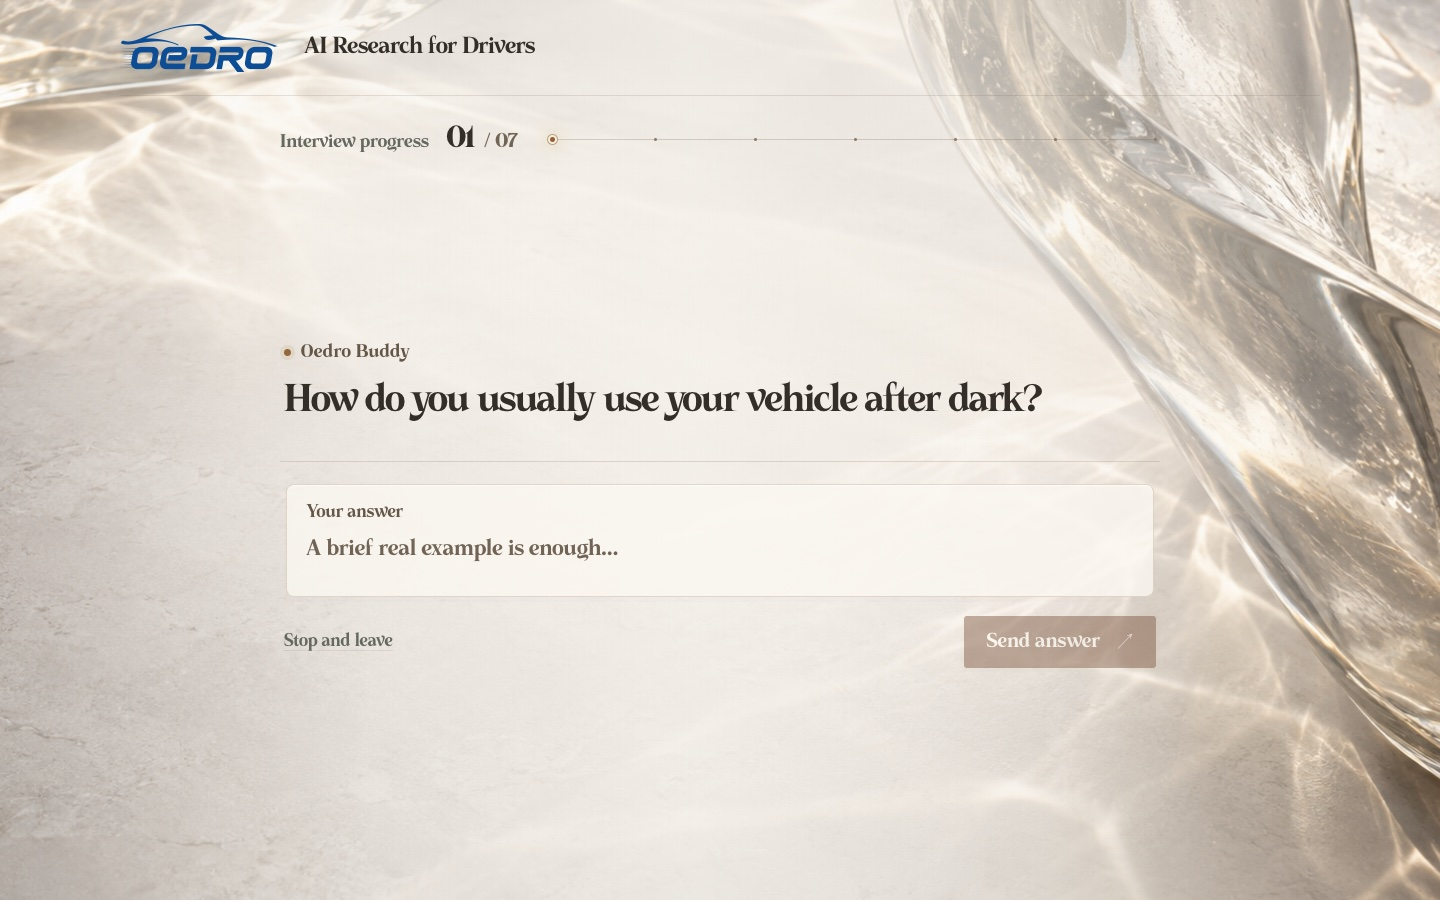
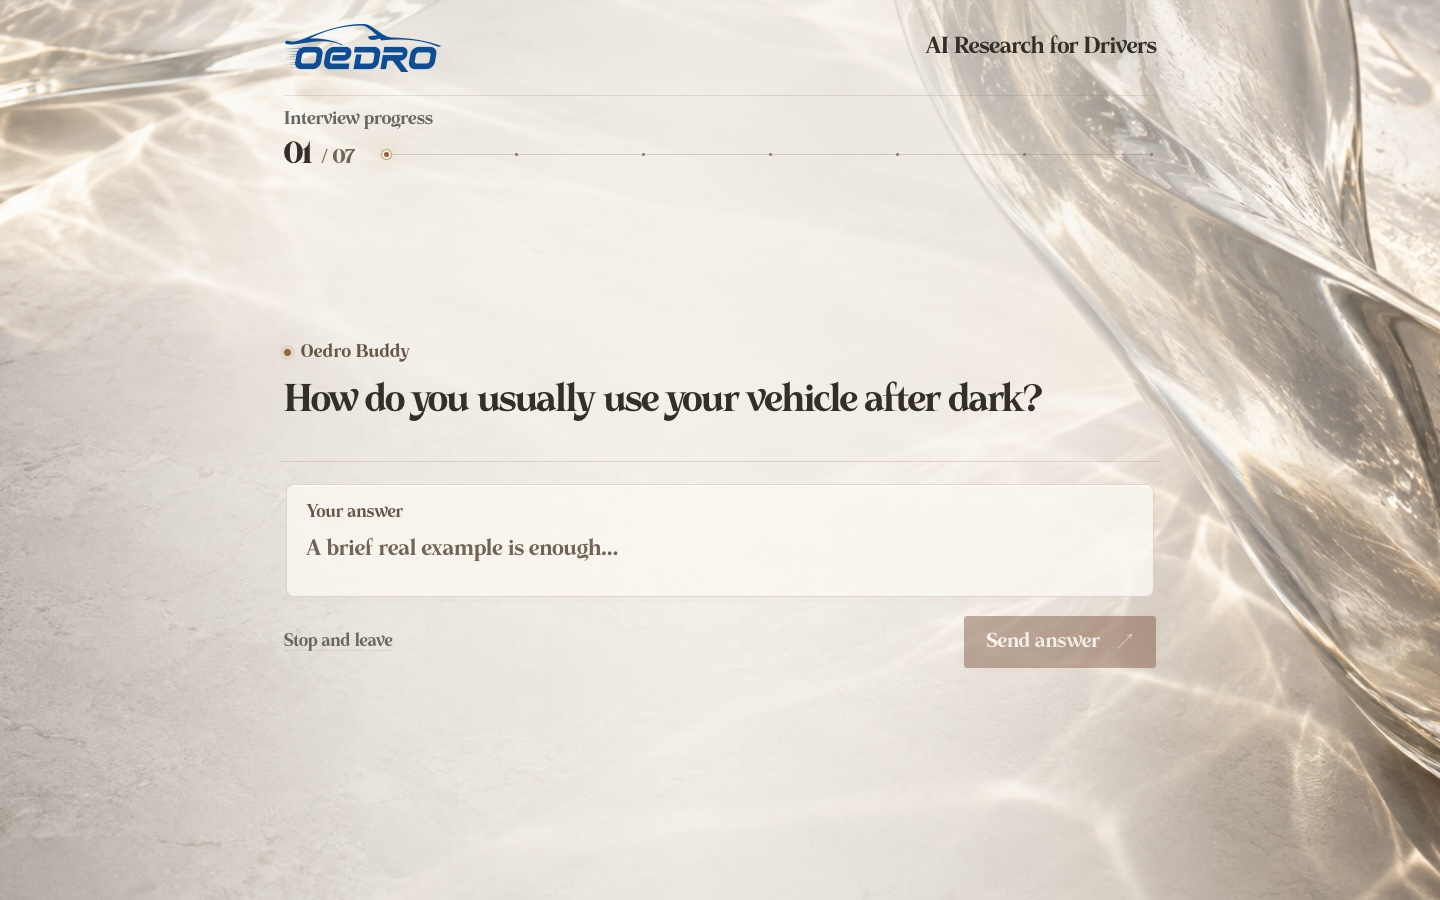
Align research header, stack merch concepts, consolidate design rules

Changed region(s): [[0.0938, 0.0311, 0.375, 0.0933], [0.1875, 0.1244, 0.375, 0.1867], [0.625, 0.0311, 0.8125, 0.0622]]

diff --git a/apps/light-research/app/globals.css b/apps/light-research/app/globals.css
@@ -29,8 +29,8 @@ button:focus-visible, textarea:focus-visible, input:focus-visible, summary:focus
 button { touch-action: manipulation; }
 ::selection { color: var(--ink); background: #e8cbb3; }
 .appShell { height: var(--survey-viewport, 100dvh); min-height: 0; display: grid; grid-template: 96px 86px minmax(0, 1fr) / minmax(0, 1fr); overflow: hidden; border-top: 0; }
-.appHeader { width: min(1200px, calc(100% - 80px)); margin: 0 auto; display: flex; align-items: center; justify-content: space-between; border-bottom: 1px solid var(--line); z-index: 5; }
-.identity { display: flex; align-items: center; gap: 20px; }
+.appHeader { width: min(872px, calc(100% - 88px)); margin: 0 auto; display: flex; align-items: center; justify-content: space-between; border-bottom: 1px solid var(--line); z-index: 5; }
+.identity { display: flex; align-items: center; justify-content: space-between; width: 100%; gap: 20px; }
 .brandMark { display: inline-flex; align-items: center; gap: 9px; font-weight: 750; letter-spacing: -.05em; font-size: 23px; }
 .brandMark::before { content: ""; width: 22px; height: 22px; border: 1.5px solid currentColor; border-radius: 50%; background: radial-gradient(circle, currentColor 0 2px, transparent 2.5px); }
 .appHeader h1 { margin: 0; padding-left: 20px; border-left: 1px solid var(--line); font-size: 14px; font-weight: 500; letter-spacing: .16em; text-transform: uppercase; }
@@ -213,13 +213,13 @@ body { background: #f1eee7 url("/study-assets/cast-light.png") center / cover fi
 .motionPaused::before { animation-play-state: paused; }
 .appHeader { border-bottom-color: #6f61522b; }
 .brandMark { font-family: var(--voice); font-weight: 400; font-size: 26px; letter-spacing: -.025em; }
-.appHeader h1 { font: 400 24px/1.2 var(--voice); text-transform: none; letter-spacing: -.015em; border-left: none; padding-left: 0; }
+.appHeader h1 { font: 400 24px/1.2 var(--voice); text-transform: none; letter-spacing: -.015em; border-left: none; padding-left: 0; margin-left: auto; text-align: right; }
 .identity { gap: 24px; }
 .sessionTools summary { font-size: 17px; }
 .sessionPopover { background: #f9f6ef; }
 .studyRail { gap: 28px; }
 .topicPosition { gap: 12px; align-items: baseline; }
-.topicPosition > span:first-child { font-size: 15px; }
+.progressLabel { font-size: 15px; }
 .topicPosition strong { font-size: 38px; line-height: 1; font-weight: 400; letter-spacing: -.04em; }
 .topicTotal { font-size: 18px; color: #716655; }
 .progressHorizon { position: relative; flex: 1; min-width: 0; height: 1px; background: #7a6a5345; margin: 0 3px; }
@@ -247,7 +247,7 @@ body { background: #f1eee7 url("/study-assets/cast-light.png") center / cover fi
 .consentPanel h1, .completionPanel h2 { font-family: var(--voice); }
 @keyframes lightDrift { from { transform: scale(1.04) translate(-.6%, -.3%); } to { transform: scale(1.06) translate(.6%, .3%); } }
 @media (max-width: 760px) {
-  .appHeader { width: calc(100% - 36px); }
+  .appHeader { width: calc(100% - 56px); }
   .identity { gap: 12px; }
   .brandMark { font-size: 21px; }
   .appHeader h1 { font-size: 20px; }
@@ -255,7 +255,7 @@ body { background: #f1eee7 url("/study-assets/cast-light.png") center / cover fi
   .studyRail { width: calc(100% - 48px); gap: 22px; }
   .topicPosition { gap: 8px; }
   .topicPosition strong { font-size: 30px; }
-  .topicPosition > span:first-child { font-size: 14px; }
+  .progressLabel { font-size: 14px; }
   .topicTotal { font-size: 16px; }
   .conversationArea { padding-inline: 24px; }
   .appShell::before { background-position: 60% center; }
@@ -305,7 +305,7 @@ body { background: #f1eee7 url("/study-assets/cast-light.png") center / cover fi
   .appHeader h1 { font-size: 18px; }
 }
 @media (max-width: 760px) {
-  .typefaceSurface[data-typeface] .identity { display: grid; gap: 2px; }
+  .typefaceSurface[data-typeface] .identity { display: grid; grid-template-columns: minmax(0, 1fr); gap: 2px; }
   .typefaceSurface[data-typeface] .brandMark { font-size: 16px; }
   .typefaceSurface[data-typeface] .brandMark::before { width: 14px; height: 14px; }
   .typefaceSurface[data-typeface] .appHeader h1 { font-size: 21px; white-space: nowrap; }
@@ -317,9 +317,10 @@ body { background: #f1eee7 url("/study-assets/cast-light.png") center / cover fi
 }
 
 /* Reading and input refinement: retain the cast-glass material with a usable type scale. */
-.studyRail { width: min(880px, calc(100% - 80px)); gap: 28px; }
+.studyRail { width: min(872px, calc(100% - 88px)); flex-direction: column; align-items: stretch; justify-content: center; gap: 8px; }
+.progressRow { display: flex; align-items: center; gap: 24px; width: 100%; }
 .topicPosition { gap: 10px; }
-.topicPosition > span:first-child { font-size: 19px; margin-right: 8px; }
+.progressLabel { font-size: 19px; }
 .topicPosition strong { font-size: 32px; }
 .topicTotal { font-size: 21px; }
 .conversationArea { width: min(960px, 100%); }
@@ -346,9 +347,10 @@ body { background: #f1eee7 url("/study-assets/cast-light.png") center / cover fi
 @media (max-width: 760px) {
   .typefaceSurface[data-typeface] .sessionTools summary { font-size: 18px; }
   .appHeader { column-gap: 12px; padding-top: env(safe-area-inset-top); }
-  .studyRail { width: calc(100% - 48px); gap: 18px; }
+  .studyRail { width: calc(100% - 56px); gap: 6px; }
+  .progressRow { gap: 18px; }
   .topicPosition { gap: 7px; }
-  .topicPosition > span:first-child { font-size: 17px; margin-right: 3px; }
+  .progressLabel { font-size: 17px; }
   .topicPosition strong { font-size: 27px; }
   .topicTotal { font-size: 18px; }
   .message > span { font-size: 17px; }
@@ -364,7 +366,7 @@ body { background: #f1eee7 url("/study-assets/cast-light.png") center / cover fi
   .isOpening .conversationArea { padding-bottom: max(20px, env(safe-area-inset-bottom)); }
 }
 @media (max-height: 590px) {
-  .appShell { grid-template-rows: 52px 40px minmax(0, 1fr); }
+  .appShell { grid-template-rows: 72px 66px minmax(0, 1fr); }
   .conversationArea { padding-bottom: max(6px, env(safe-area-inset-bottom)); }
   .composer { max-height: calc(var(--survey-viewport, 100dvh) * .56); padding-top: 6px; }
   .composerActions { margin-top: 4px; gap: 4px; }
@@ -378,7 +380,7 @@ body { background: #f1eee7 url("/study-assets/cast-light.png") center / cover fi
 }
 
 /* Mobile keyboards resize visualViewport, not necessarily CSS media-query height. */
-.appShell[data-compact-viewport] { grid-template-rows: 52px 40px minmax(0, 1fr); }
+.appShell[data-compact-viewport] { grid-template-rows: 72px 66px minmax(0, 1fr); }
 [data-compact-viewport] .conversationArea { padding-bottom: max(6px, env(safe-area-inset-bottom)); }
 [data-compact-viewport].isOpening .conversationArea { align-content: stretch; grid-template-rows: minmax(0, 1fr) auto; }
 [data-compact-viewport].isOpening .transcript { max-height: none; }

diff --git a/merch-plan.html b/merch-plan.html
@@ -6,9 +6,9 @@
   <meta name="description" content="OEDRO Merch 企划：周边方向、用户共创、打样与小批量验证建议。">
   <link rel="icon" href="data:,">
   <title>OEDRO Merch 企划</title>
-  <link rel="stylesheet" href="base.css?v=20260914-r1">
-  <link rel="stylesheet" href="theme.css?v=20260914-r1">
-  <link rel="stylesheet" href="brand-plan.css">
+  <link rel="stylesheet" href="base.css?v=20260914-r2">
+  <link rel="stylesheet" href="theme.css?v=20260914-r2">
+  <link rel="stylesheet" href="brand-plan.css?v=20260914-r2">
 </head>
 <body data-page="merch-plan">
   <a class="skip-link" href="#content">跳到正文</a>
@@ -31,7 +31,6 @@
           <header class="page-heading"><h1>OEDRO Merch 企划</h1></header>
           <p class="plan-lead">周边是品牌升级里的用户参与试验，能否成为商品线，要看真实需求、成本结构和用户是否愿意主动展示。</p>
           <p>汽车配件购买频率低，两次购买之间，车贴、帽子、投稿和活动可以形成轻量联系。以下是尚未启动的建议，设计均为概念效果图，没有现货。</p>
-          <div class="plan-links"><a href="social-brand.html">OEDRO 社媒品牌升级 →</a><a href="content-studio.html">已有内容与方案</a></div>
 
           <section aria-labelledby="choices"><h2 id="choices">方案要点</h2>
             <ol class="plan-decisions">
@@ -55,14 +54,17 @@
 
           <section aria-labelledby="concepts"><h2 id="concepts">三个设计方向</h2>
             <div class="plan-concepts">
-              <article><h3>工具工装</h3><p>把结构线、织带和压印做进设计，让周边看起来像车间里会用到的东西。重点比较材料细节与工具箱、工作服的搭配。</p>
+              <article><h3>工具工装</h3>
                 <figure><img src="assets/brand-plan/merch-utility.jpg" width="1536" height="1024" loading="lazy" alt="棕色工装帽、结构纹织章与织带钥匙扣"><figcaption>概念效果图 · 工具工装</figcaption></figure>
+                <p>把结构线、织带和压印做进设计，让周边看起来像车间里会用到的东西。重点比较材料细节与工具箱、工作服的搭配。</p>
               </article>
-              <article><h3>户外路线</h3><p>用弯曲的山路做图案，适合工具箱或车窗，强调“车是去户外的工具”。图案应能在小面积上辨认。</p>
+              <article><h3>户外路线</h3>
                 <figure><img src="assets/brand-plan/merch-trail.jpg" width="1536" height="1024" loading="lazy" alt="橄榄绿帽子、山路织章与透明车贴"><figcaption>概念效果图 · 户外路线</figcaption></figure>
+                <p>用弯曲的山路做图案，适合工具箱或车窗，强调“车是去户外的工具”。图案应能在小面积上辨认。</p>
               </article>
-              <article><h3>车主幽默</h3><p>围绕“总被叫去搬东西”的情境做设计，写车主一看就懂的场景。判断用户是否愿意使用这个表达，避免廉价笑话。</p>
+              <article><h3>车主幽默</h3>
                 <figure><img src="assets/brand-plan/merch-humor.jpg" width="1536" height="1024" loading="lazy" alt="印有ON CALL搬家皮卡图案的车贴、帽子与T恤"><figcaption>概念效果图 · ON CALL：有皮卡，就总有人找你搬东西。</figcaption></figure>
+                <p>围绕“总被叫去搬东西”的情境做设计，写车主一看就懂的场景。判断用户是否愿意使用这个表达，避免廉价笑话。</p>
               </article>
             </div>
           </section>
@@ -116,6 +118,6 @@
       </main>
     </div>
   </div>
-  <script src="app.js?v=20260914-r1"></script>
+  <script src="app.js?v=20260914-r2"></script>
 </body>
 </html>

diff --git a/apps/light-research/components/ResearchInterview.tsx b/apps/light-research/components/ResearchInterview.tsx
@@ -567,10 +567,13 @@ export function ResearchInterview({ study, requireConsent = false }: { study: Pu
         <div className="identity"><Image className="officialLogo" src="/oedro-logo.png" alt="OEDRO" width={160} height={48} unoptimized /><h1>AI Research for Drivers</h1></div>
       </header>
       <aside className="studyRail" aria-label={`${visualUi.topic} ${conversation?.progress.current ?? 1} / ${conversation?.progress.total ?? study.anchors.length}`}>
-        <div className="topicPosition"><span>{visualUi.topic}</span><strong>{String(conversation?.progress.current ?? 1).padStart(2, "0")}</strong><span className="topicTotal">/ {String(conversation?.progress.total ?? study.anchors.length).padStart(2, "0")}</span></div>
+        <span className="progressLabel">{visualUi.topic}</span>
+        <div className="progressRow">
+        <div className="topicPosition"><strong>{String(conversation?.progress.current ?? 1).padStart(2, "0")}</strong><span className="topicTotal">/ {String(conversation?.progress.total ?? study.anchors.length).padStart(2, "0")}</span></div>
         <div className="progressHorizon" aria-hidden="true">
           <span className="horizonFill" style={{ width: `${Math.max(0, ((conversation?.progress.current ?? 1) - 1) / Math.max(1, (conversation?.progress.total ?? study.anchors.length) - 1)) * 100}%` }} />
           <div className="horizonMarks">{study.anchors.map((anchor, index) => <i key={anchor.id} className={index === (conversation?.progress.current ?? 1) - 1 ? "current" : index < (conversation?.progress.current ?? 1) ? "reached" : ""} />)}</div>
+        </div>
         </div>
       </aside>
       <section className={`conversationArea${showLatest && !completed ? " hasEarlier" : ""}`} aria-label={recoveryUi.conversation}>

diff --git a/social-brand.html b/social-brand.html
@@ -6,9 +6,9 @@
   <meta name="description" content="OEDRO 社媒品牌升级：车主内容、平台分工与四周小范围试验建议。">
   <link rel="icon" href="data:,">
   <title>OEDRO 社媒品牌升级</title>
-  <link rel="stylesheet" href="base.css?v=20260914-r1">
-  <link rel="stylesheet" href="theme.css?v=20260914-r1">
-  <link rel="stylesheet" href="brand-plan.css">
+  <link rel="stylesheet" href="base.css?v=20260914-r2">
+  <link rel="stylesheet" href="theme.css?v=20260914-r2">
+  <link rel="stylesheet" href="brand-plan.css?v=20260914-r2">
 </head>
 <body data-page="social-brand">
   <a class="skip-link" href="#content">跳到正文</a>
@@ -115,6 +115,6 @@
       </main>
     </div>
   </div>
-  <script src="app.js?v=20260914-r1"></script>
+  <script src="app.js?v=20260914-r2"></script>
 </body>
 </html>

diff --git a/content-pipeline-test.html b/content-pipeline-test.html
@@ -7,8 +7,8 @@
   <meta name="theme-color" content="#080a08">
   <link rel="icon" href="data:,">
   <title>社媒内容制作（测试版）｜海外用户运营</title>
-  <link rel="stylesheet" href="base.css?v=20260914-r1">
-  <link rel="stylesheet" href="theme.css?v=20260914-r1">
+  <link rel="stylesheet" href="base.css?v=20260914-r2">
+  <link rel="stylesheet" href="theme.css?v=20260914-r2">
   <link rel="stylesheet" href="content-pipeline.css?v=photo-primary-20260909">
 </head>
 <body data-page="studio">
@@ -42,6 +42,6 @@
     </div>
   </div>
   <script src="content-pipeline-test.js?v=photo-primary-20260909"></script>
-  <script src="app.js?v=20260914-r1"></script>
+  <script src="app.js?v=20260914-r2"></script>
 </body>
 </html>

diff --git a/flipbooks.html b/flipbooks.html
@@ -7,8 +7,8 @@
   <meta name="theme-color" content="#080a08">
   <link rel="icon" href="data:,">
   <title>Flip Book Demo（翻页书）｜OEDRO海外用户运营</title>
-  <link rel="stylesheet" href="base.css?v=20260914-r1">
-  <link rel="stylesheet" href="theme.css?v=20260914-r1">
+  <link rel="stylesheet" href="base.css?v=20260914-r2">
+  <link rel="stylesheet" href="theme.css?v=20260914-r2">
 </head>
 <body data-page="flipbooks">
   <a class="skip-link" href="#content">跳到正文</a>
@@ -29,6 +29,6 @@
       <main class="main-content" id="content" aria-live="polite"></main>
     </div>
   </div>
-  <script src="app.js?v=20260914-r1"></script>
+  <script src="app.js?v=20260914-r2"></script>
 </body>
 </html>

diff --git a/mascot.html b/mascot.html
@@ -7,8 +7,8 @@
   <meta name="theme-color" content="#080a08">
   <link rel="icon" href="data:,">
   <title>OEDRO 吉祥物迭代</title>
-  <link rel="stylesheet" href="base.css?v=20260914-r1">
-  <link rel="stylesheet" href="theme.css?v=20260914-r1">
+  <link rel="stylesheet" href="base.css?v=20260914-r2">
+  <link rel="stylesheet" href="theme.css?v=20260914-r2">
   <link rel="stylesheet" href="mascot.css">
 </head>
 <body data-page="mascot">
@@ -30,7 +30,7 @@
       <main class="main-content mascot-main" id="content" aria-live="polite"></main>
     </div>
   </div>
-  <script src="app.js?v=20260914-r1"></script>
+  <script src="app.js?v=20260914-r2"></script>
   <script src="mascot.js"></script>
 </body>
 </html>

diff --git a/light-research.html b/light-research.html
@@ -7,8 +7,8 @@
   <meta name="theme-color" content="#080a08">
   <link rel="icon" href="data:,">
   <title>AI智能用户调研｜OEDRO海外用户运营</title>
-  <link rel="stylesheet" href="base.css?v=20260914-r1">
-  <link rel="stylesheet" href="theme.css?v=20260914-r1">
+  <link rel="stylesheet" href="base.css?v=20260914-r2">
+  <link rel="stylesheet" href="theme.css?v=20260914-r2">
 </head>
 <body data-page="research">
   <a class="skip-link" href="#content">跳到正文</a>
@@ -29,6 +29,6 @@
       <main class="main-content" id="content" aria-live="polite"></main>
     </div>
   </div>
-  <script src="app.js?v=20260914-r1"></script>
+  <script src="app.js?v=20260914-r2"></script>
 </body>
 </html>

diff --git a/research.html b/research.html
@@ -7,8 +7,8 @@
   <meta name="theme-color" content="#080a08">
   <link rel="icon" href="data:,">
   <title>AI智能用户调研｜OEDRO海外用户运营</title>
-  <link rel="stylesheet" href="base.css?v=20260914-r1">
-  <link rel="stylesheet" href="theme.css?v=20260914-r1">
+  <link rel="stylesheet" href="base.css?v=20260914-r2">
+  <link rel="stylesheet" href="theme.css?v=20260914-r2">
 </head>
 <body data-page="research">
   <a class="skip-link" href="#content">跳到正文</a>
@@ -29,6 +29,6 @@
       <main class="main-content" id="content" aria-live="polite"></main>
     </div>
   </div>
-  <script src="app.js?v=20260914-r1"></script>
+  <script src="app.js?v=20260914-r2"></script>
 </body>
 </html>

diff --git a/email-templates.html b/email-templates.html
@@ -7,8 +7,8 @@
   <meta name="theme-color" content="#080a08">
   <link rel="icon" href="data:,">
   <title>用户邮件模板｜OEDRO 海外用户运营</title>
-  <link rel="stylesheet" href="base.css?v=20260914-r1">
-  <link rel="stylesheet" href="theme.css?v=20260914-r1">
+  <link rel="stylesheet" href="base.css?v=20260914-r2">
+  <link rel="stylesheet" href="theme.css?v=20260914-r2">
   <link rel="stylesheet" href="email-templates.css?v=20260914">
 </head>
 <body data-page="email-templates">
@@ -31,6 +31,6 @@
     </div>
   </div>
   <script src="email-templates.js?v=20260914"></script>
-  <script src="app.js?v=20260914-r1"></script>
+  <script src="app.js?v=20260914-r2"></script>
 </body>
 </html>

diff --git a/playbook.html b/playbook.html
@@ -7,8 +7,8 @@
   <meta name="theme-color" content="#080a08">
   <link rel="icon" href="data:,">
   <title>OEDRO海外用户运营｜工作方法</title>
-  <link rel="stylesheet" href="base.css?v=20260914-r1">
-  <link rel="stylesheet" href="theme.css?v=20260914-r1">
+  <link rel="stylesheet" href="base.css?v=20260914-r2">
+  <link rel="stylesheet" href="theme.css?v=20260914-r2">
 </head>
 <body data-page="playbook">
   <a class="skip-link" href="#content">跳到正文</a>
@@ -29,6 +29,6 @@
       <main class="main-content" id="content" aria-live="polite"></main>
     </div>
   </div>
-  <script src="app.js?v=20260914-r1"></script>
+  <script src="app.js?v=20260914-r2"></script>
 </body>
 </html>

diff --git a/user-voice.html b/user-voice.html
@@ -7,8 +7,8 @@
   <meta name="theme-color" content="#080a08">
   <link rel="icon" href="data:,">
   <title>OEDRO海外用户运营｜问题与反馈</title>
-  <link rel="stylesheet" href="base.css?v=20260914-r1">
-  <link rel="stylesheet" href="theme.css?v=20260914-r1">
+  <link rel="stylesheet" href="base.css?v=20260914-r2">
+  <link rel="stylesheet" href="theme.css?v=20260914-r2">
 </head>
 <body data-page="voice">
   <a class="skip-link" href="#content">跳到正文</a>
@@ -29,6 +29,6 @@
       <main class="main-content" id="content" aria-live="polite"></main>
     </div>
   </div>
-  <script src="app.js?v=20260914-r1"></script>
+  <script src="app.js?v=20260914-r2"></script>
 </body>
 </html>
